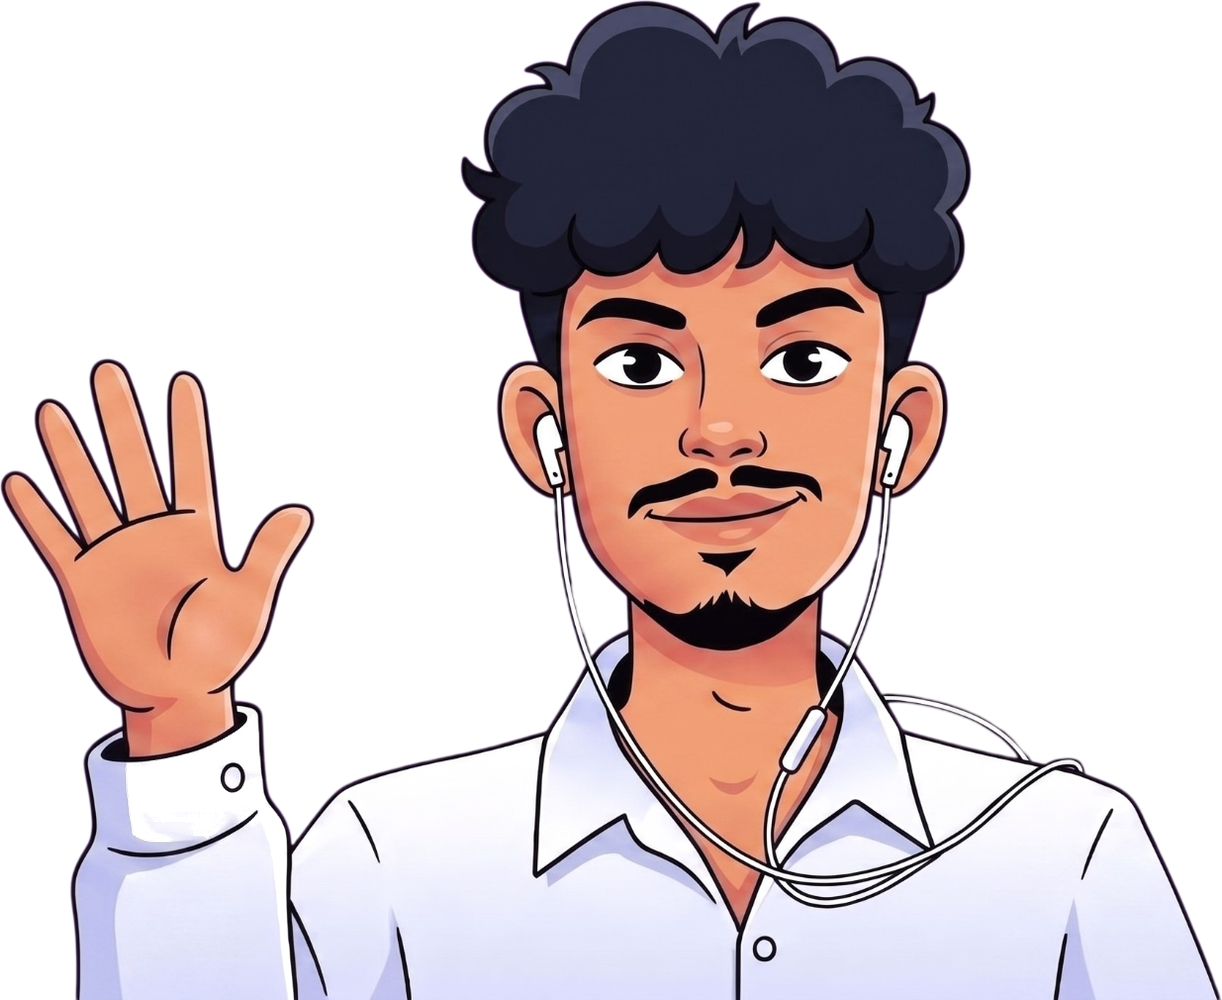
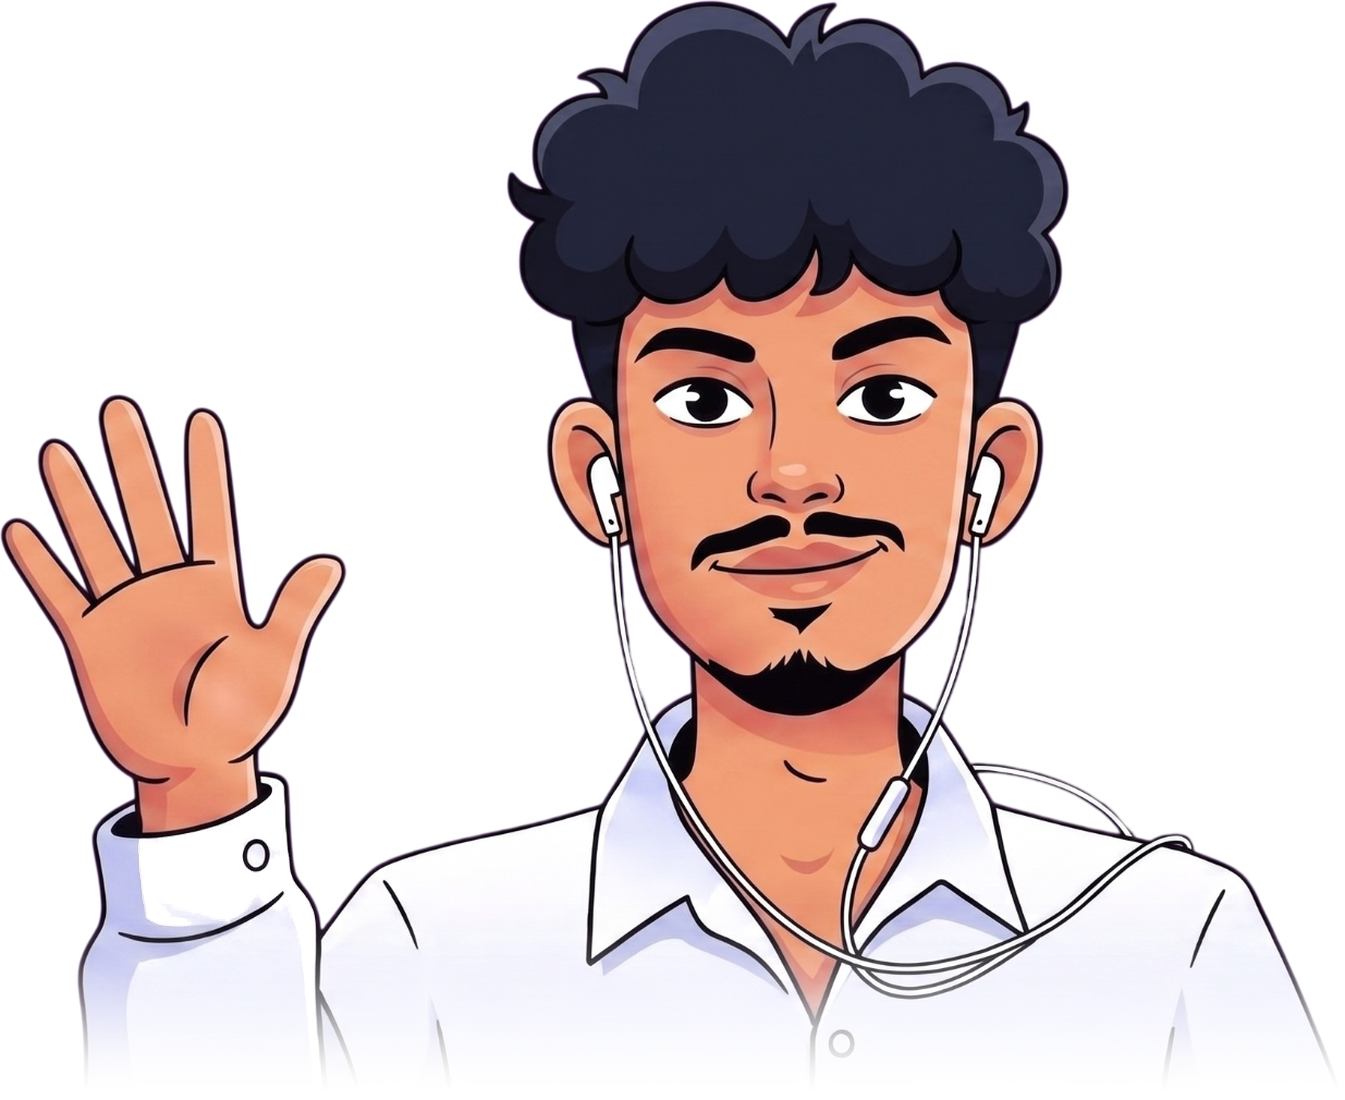
fix: redesign hero character into a modern framed developer card with smooth fade and decluttered 3D background

diff --git a/components/CharacterIllustration.tsx b/components/CharacterIllustration.tsx
@@ -7,46 +7,88 @@ import { StarDoodle, SpeechBubble } from "./Doodles";
 export const CharacterIllustration = ({ className = "" }: { className?: string }) => {
   return (
     <div className={`relative flex items-center justify-center select-none ${className}`}>
-      {/* Speech bubble positioned above character */}
-      <div className="absolute -top-10 sm:-top-14 left-2 sm:-left-6 z-20 animate-bounce duration-1000">
+      {/* Outer Glow behind the card */}
+      <div className="absolute -inset-4 bg-gradient-to-tr from-[#7c3aed]/25 via-[#38bdf8]/15 to-[#ccff00]/15 rounded-[2.5rem] blur-2xl pointer-events-none -z-10" />
+
+      {/* Floating Speech Bubble - positioned clearly above without covering face */}
+      <div className="absolute -top-12 sm:-top-16 left-0 sm:-left-8 z-30 transform -rotate-3 hover:rotate-0 transition-transform">
         <SpeechBubble />
       </div>
 
       {/* Floating Star doodle */}
-      <div className="absolute -top-4 right-8 sm:right-12 z-20 animate-pulse">
-        <StarDoodle className="w-9 h-9 text-amber-400 drop-shadow-[0_0_12px_rgba(251,191,36,0.8)]" />
+      <div className="absolute -top-6 -right-2 sm:-right-4 z-30 animate-pulse">
+        <StarDoodle className="w-10 h-10 text-amber-400 drop-shadow-[0_0_15px_rgba(251,191,36,0.9)]" />
       </div>
 
-      {/* Little sparkle doodles */}
-      <div className="absolute top-12 -right-2 text-white text-xl font-bold animate-ping opacity-75">
+      {/* Sparkles */}
+      <div className="absolute top-1/4 -right-5 text-white text-2xl font-bold animate-ping opacity-60 pointer-events-none">
         ✦
       </div>
-      <div className="absolute bottom-24 -left-4 text-purple-400 text-lg font-bold">
+      <div className="absolute bottom-20 -left-6 text-[#ccff00] text-xl font-bold pointer-events-none">
         ✦
       </div>
 
-      {/* Main Character Illustration Container */}
-      <div className="relative w-full max-w-[360px] sm:max-w-[440px] lg:max-w-[480px] transition-transform duration-300 hover:scale-[1.03]">
-        {/* Soft atmospheric gradient glow behind character */}
-        <div className="absolute inset-0 bg-gradient-to-tr from-[#7c3aed]/30 via-[#38bdf8]/15 to-[#ccff00]/10 rounded-full blur-3xl transform scale-90 -z-10" />
+      {/* Hero Showcase Card Frame */}
+      <div className="relative w-full max-w-[340px] sm:max-w-[400px] bg-gradient-to-b from-[#131826]/90 via-[#0e121d]/95 to-[#080a10] border border-white/15 hover:border-[#ccff00]/50 rounded-[2.5rem] p-5 pt-8 shadow-[0_20px_50px_rgba(0,0,0,0.8)] overflow-hidden transition-all duration-300 group">
+        {/* Subtle grid background pattern inside card */}
+        <div
+          className="absolute inset-0 opacity-[0.07] pointer-events-none"
+          style={{
+            backgroundImage:
+              "radial-gradient(circle at 1px 1px, #ffffff 1px, transparent 0)",
+            backgroundSize: "20px 20px",
+          }}
+        />
 
-        {/* Orange waving motion streaks beside hand */}
-        <div className="absolute top-[28%] -left-3 sm:-left-6 pointer-events-none z-10">
-          <svg viewBox="0 0 60 60" fill="none" className="w-12 sm:w-16 h-auto text-orange-400">
-            <path d="M10 20 C2 35 2 45 15 55" stroke="#f97316" strokeWidth="3.5" strokeLinecap="round" />
-            <path d="M22 15 C14 30 14 40 25 50" stroke="#f97316" strokeWidth="3" strokeLinecap="round" />
-          </svg>
+        {/* Ambient radial color accents inside card */}
+        <div className="absolute top-0 right-0 w-48 h-48 bg-[#7c3aed]/20 rounded-full blur-3xl pointer-events-none" />
+        <div className="absolute bottom-0 left-0 w-48 h-48 bg-[#ccff00]/10 rounded-full blur-3xl pointer-events-none" />
+
+        {/* Top Card Header Strip */}
+        <div className="flex items-center justify-between pb-3 mb-2 border-b border-white/10 relative z-10">
+          <div className="flex items-center gap-2">
+            <span className="w-2.5 h-2.5 rounded-full bg-red-500/80" />
+            <span className="w-2.5 h-2.5 rounded-full bg-yellow-500/80" />
+            <span className="w-2.5 h-2.5 rounded-full bg-emerald-500/80" />
+            <span className="text-[11px] font-mono text-zinc-400 ml-1.5 font-bold tracking-wider">
+              DIP.DEV
+            </span>
+          </div>
+          <span className="px-2.5 py-0.5 rounded-full bg-white/5 border border-white/10 text-[10px] font-mono text-zinc-300">
+            BSc.IT
+          </span>
         </div>
 
-        {/* Dip Kunwar Vector Illustration */}
-        <Image
-          src="/hero-character.png"
-          alt="Dip Kunwar Illustration"
-          width={1222}
-          height={1000}
-          priority
-          className="w-full h-auto object-contain drop-shadow-[0_20px_45px_rgba(124,58,237,0.35)] select-none pointer-events-none"
-        />
+        {/* Character Image Container */}
+        <div className="relative aspect-[1.15/1] w-full flex items-end justify-center overflow-hidden rounded-2xl">
+          {/* Orange motion streaks beside waving hand */}
+          <div className="absolute top-[25%] left-1 pointer-events-none z-20">
+            <svg viewBox="0 0 60 60" fill="none" className="w-10 sm:w-12 h-auto text-orange-400">
+              <path d="M10 20 C2 35 2 45 15 55" stroke="#f97316" strokeWidth="3" strokeLinecap="round" />
+              <path d="M22 15 C14 30 14 40 25 50" stroke="#f97316" strokeWidth="3" strokeLinecap="round" />
+            </svg>
+          </div>
+
+          <Image
+            src="/hero-character.png"
+            alt="Dip Kunwar Illustration"
+            width={1345}
+            height={1100}
+            priority
+            className="w-[110%] h-auto max-w-none object-contain drop-shadow-[0_15px_30px_rgba(0,0,0,0.7)] select-none pointer-events-none transform group-hover:scale-105 transition-transform duration-300"
+          />
+        </div>
+
+        {/* Bottom Status Pill */}
+        <div className="mt-4 pt-3 border-t border-white/10 flex items-center justify-between text-xs font-mono relative z-10">
+          <div className="flex items-center gap-2">
+            <span className="w-2 h-2 rounded-full bg-emerald-400 animate-pulse shadow-[0_0_8px_#34d399]" />
+            <span className="text-zinc-200 font-semibold text-[11px] sm:text-xs">
+              Available for Projects
+            </span>
+          </div>
+          <span className="text-zinc-400 text-[11px] font-medium">Nepal 🇳🇵</span>
+        </div>
       </div>
     </div>
   );

diff --git a/components/ThreeHeroCanvas.tsx b/components/ThreeHeroCanvas.tsx
@@ -42,7 +42,7 @@ export const ThreeHeroCanvas: React.FC = () => {
     scene.add(sceneGroup);
 
     // 1. Neon Lime Wireframe Dodecahedron
-    const dodecaGeo = new THREE.DodecahedronGeometry(1.2, 0);
+    const dodecaGeo = new THREE.DodecahedronGeometry(0.9, 0);
     const dodecaMat = new THREE.MeshStandardMaterial({
       color: 0xccff00,
       wireframe: true,
@@ -50,7 +50,7 @@ export const ThreeHeroCanvas: React.FC = () => {
       roughness: 0.2,
     });
     const dodecaMesh = new THREE.Mesh(dodecaGeo, dodecaMat);
-    dodecaMesh.position.set(3.6, 1.8, -1);
+    dodecaMesh.position.set(0.8, 2.4, -2.2);
     sceneGroup.add(dodecaMesh);
 
     // 2. Glossy Electric Violet Icosahedron
